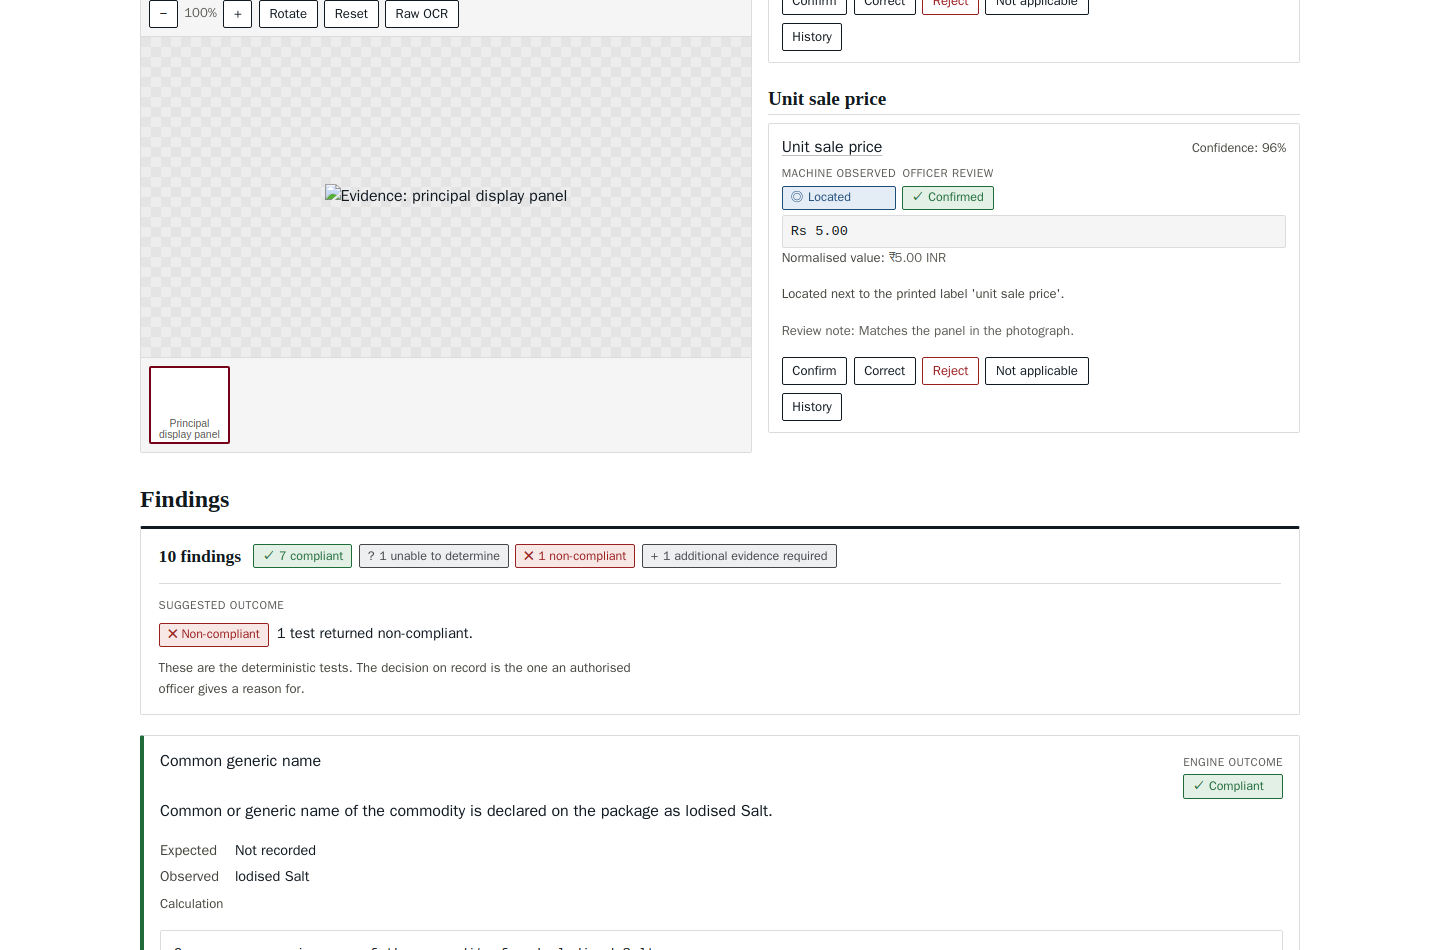
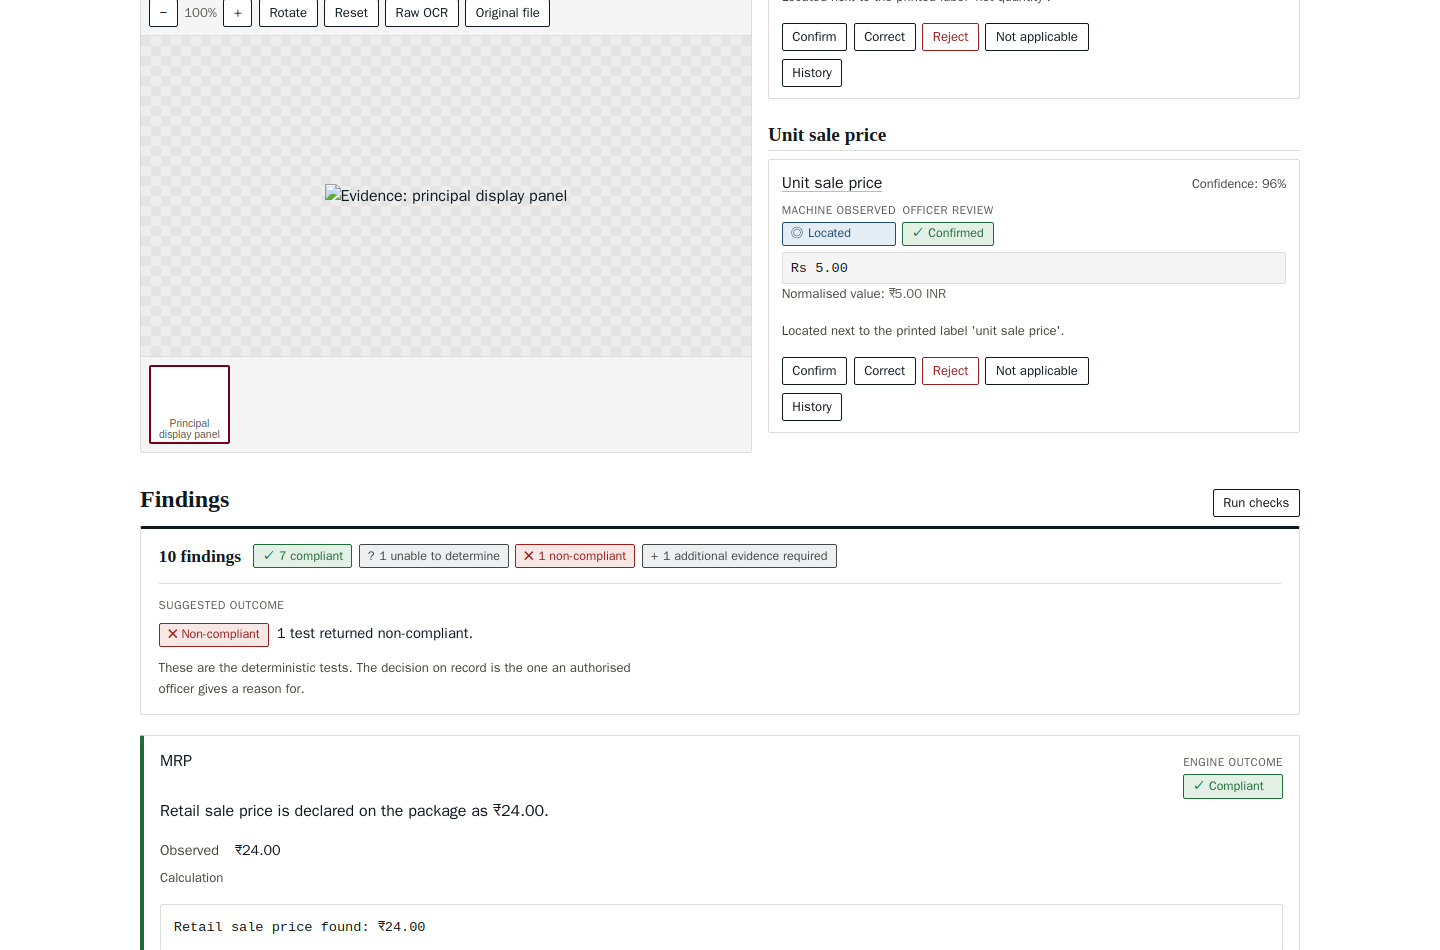
Refresh the inspection screenshot, and document the officer flow command
The screenshot in the README was taken before the report section, the camera
control and the Edit details button existed, so it showed a screen that no longer
matches the application. Regenerated from the running stack.

The verify command block listed the browser, accessibility and tint suites and
left out verify_officer_flow.py, which is the one that drives the whole workflow
through the interface and needs a generated label to upload. Both commands are
now there.

diff --git a/README.md b/README.md
@@ -223,6 +223,13 @@ docker run --rm --network maanak_default -v "$PWD/api:/w" -w /w \
   -e BASE_URL=http://web:8080 maanak-browser:dev python scripts/measure_a11y.py
 docker run --rm --network maanak_default -v "$PWD/api:/w" -w /w \
   -e BASE_URL=http://web:8080 maanak-browser:dev python scripts/scan_tints.py --app
+
+# The whole officer workflow through the interface, from an empty inspection to an
+# opened case. Needs the seeded accounts and a label image to upload.
+docker compose run --rm --no-deps --user root -v "$PWD/api:/app" \
+  --entrypoint python api scripts/make_sample_label.py
+docker run --rm --network maanak_default -v "$PWD:/repo" -v "$PWD/api:/w" -w /w \
+  -e BASE_URL=http://web:8080 maanak-browser:dev python scripts/verify_officer_flow.py
 ```
 
 Each of the eight `verify_*` suites bootstraps its own workspace, so run
